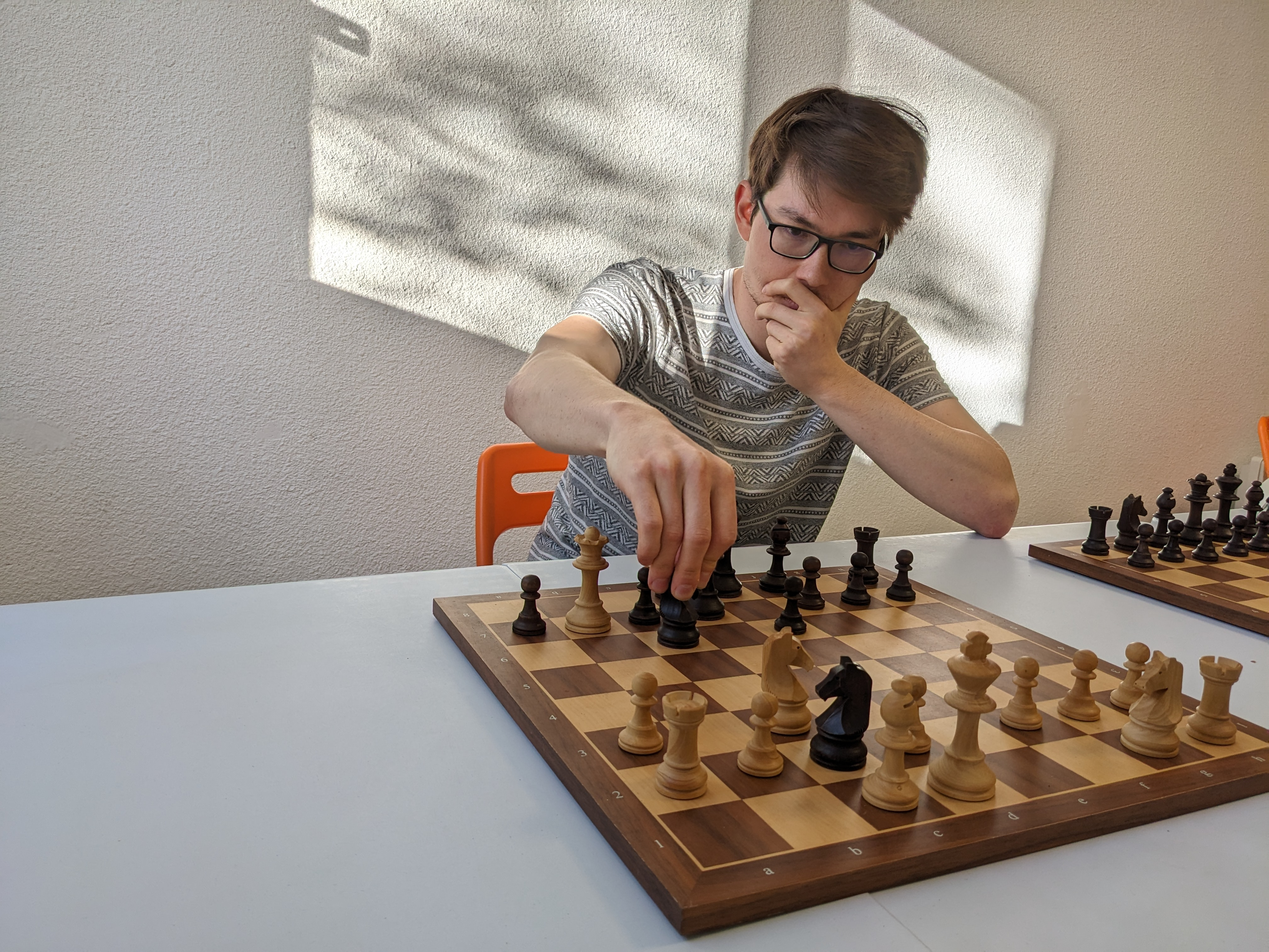
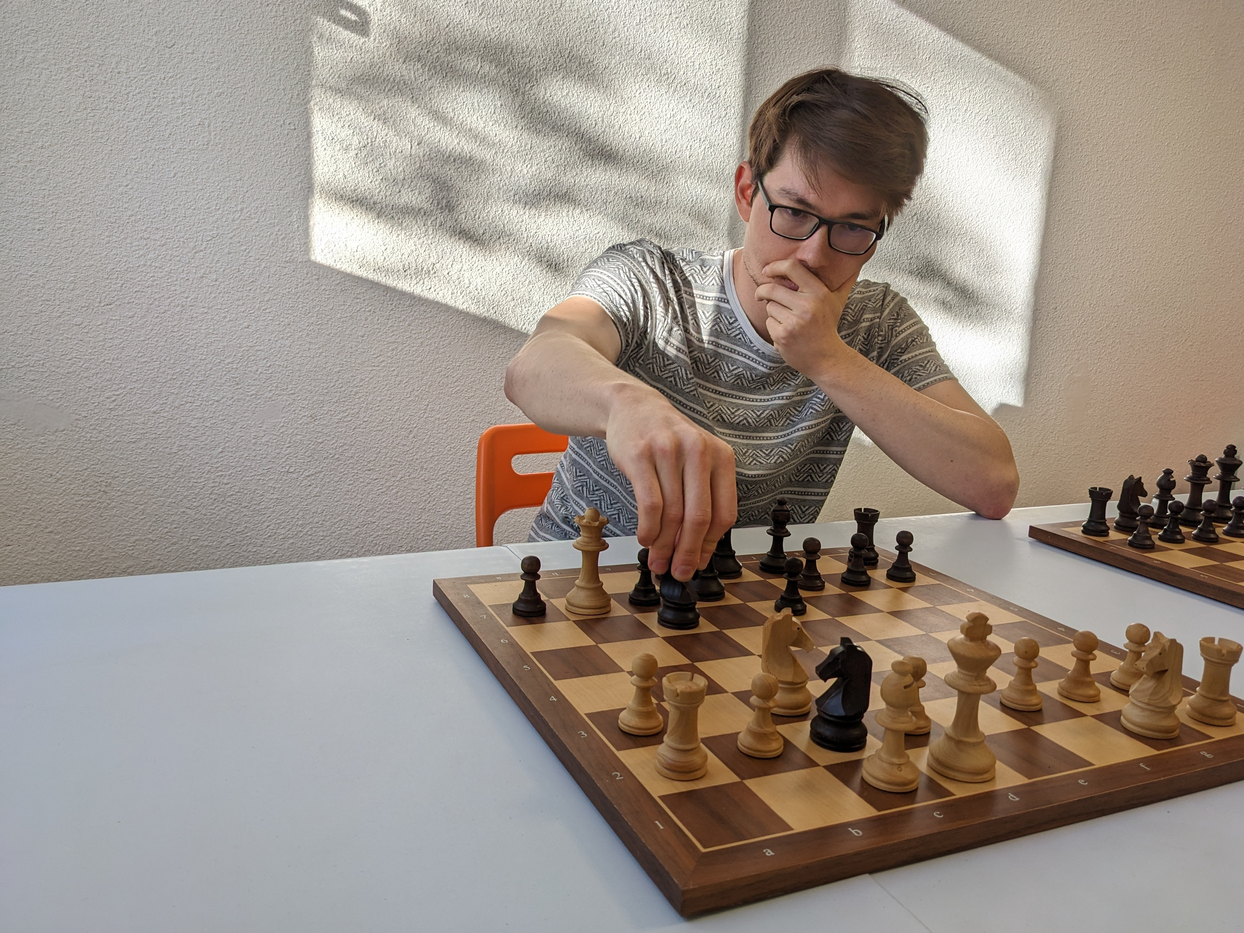
Responsive hero optimization

diff --git a/index.html b/index.html
@@ -133,14 +133,81 @@
     <div x-bind:class="showMobileNav ? 'opacity-50 pointer-events-none' : 'opacity-100 pointer-events-auto'" @resize.window="showMobileNav = window.innerWidth < 1024 ? showMobileNav : false;">
 
     <!-- Hero Banner (Divided into Three Parts) -->
-    <div class="relative flex flex-col h-screen bg-gradient-to-r from-[rgba(0,0,0,0.6)] to-[rgba(254,140,31,0.06)]">
-        <img
-            class="absolute object-cover w-full h-full mix-blend-darken"
-            srcset="images/herochess-3840.jpg 3840w, images/herochess-2860.jpg 2860w, images/herochess-1920.jpg 1920w, images/herochess-1280.jpg 1280w, images/herochess-1024.jpg 1024w, images/herochess-768.jpg 768w, images/herochess-600.jpg 6000w, images/herochess-428.jpg 428w, images/herochess-360.jpg 360w"
-            sizes="100vw"
-            src="images/herochess-1024.jpg"
-            alt="Sylvain Duhau-Marmon playing chess"
-            >
+    <div class="relative flex flex-col h-screen bg-gradient-to-r from-[rgba(0,0,0,0.8)] to-[rgba(254,140,31,0.08)]">
+        <!-- Responsive Background Image -->
+        <picture>
+            <source
+                class= "absolute object-cover w-full h-full mix-blend-darken"
+                media="(max-width: 767px)"
+                sizes="100vw"
+                srcset="
+                    images/herochess_agurta/herochess_agurta_ar_9_16,c_fill,g_auto__c_scale,w_480.jpg 480w,
+                    images/herochess_agurta/herochess_agurta_ar_9_16,c_fill,g_auto__c_scale,w_547.jpg 547w,
+                    images/herochess_agurta/herochess_agurta_ar_9_16,c_fill,g_auto__c_scale,w_610.jpg 610w,
+                    images/herochess_agurta/herochess_agurta_ar_9_16,c_fill,g_auto__c_scale,w_666.jpg 666w,
+                    images/herochess_agurta/herochess_agurta_ar_9_16,c_fill,g_auto__c_scale,w_724.jpg 724w,
+                    images/herochess_agurta/herochess_agurta_ar_9_16,c_fill,g_auto__c_scale,w_776.jpg 776w,
+                    images/herochess_agurta/herochess_agurta_ar_9_16,c_fill,g_auto__c_scale,w_796.jpg 796w,
+                    images/herochess_agurta/herochess_agurta_ar_9_16,c_fill,g_auto__c_scale,w_915.jpg 915w,
+                    images/herochess_agurta/herochess_agurta_ar_9_16,c_fill,g_auto__c_scale,w_925.jpg 925w,
+                    images/herochess_agurta/herochess_agurta_ar_9_16,c_fill,g_auto__c_scale,w_1000.jpg 1000w,
+                    images/herochess_agurta/herochess_agurta_ar_9_16,c_fill,g_auto__c_scale,w_1065.jpg 1065w,
+                    images/herochess_agurta/herochess_agurta_ar_9_16,c_fill,g_auto__c_scale,w_1095.jpg 1095w,
+                    images/herochess_agurta/herochess_agurta_ar_9_16,c_fill,g_auto__c_scale,w_1092.jpg 1092w,
+                    images/herochess_agurta/herochess_agurta_ar_9_16,c_fill,g_auto__c_scale,w_1332.jpg 1332w,
+                    images/herochess_agurta/herochess_agurta_ar_9_16,c_fill,g_auto__c_scale,w_1384.jpg 1384w,
+                    images/herochess_agurta/herochess_agurta_ar_9_16,c_fill,g_auto__c_scale,w_1431.jpg 1431w,
+                    images/herochess_agurta/herochess_agurta_ar_9_16,c_fill,g_auto__c_scale,w_1475.jpg 1475w,
+                    images/herochess_agurta/herochess_agurta_ar_9_16,c_fill,g_auto__c_scale,w_1516.jpg 1516w,
+                    images/herochess_agurta/herochess_agurta_ar_9_16,c_fill,g_auto__c_scale,w_1533.jpg 1533w,
+                    images/herochess_agurta/herochess_agurta_ar_9_16,c_fill,g_auto__c_scale,w_1534.jpg 1534w">
+            <source
+                class= "absolute object-cover w-full h-full mix-blend-darken"
+                media="(min-width: 768px) and (max-width: 991px)"
+                sizes="100vw"
+                srcset="
+                    images/herochess_agurta/herochess_agurta_c_scale,w_768.jpg 768w,
+                    images/herochess_agurta/herochess_agurta_c_scale,w_872.jpg 872w,
+                    images/herochess_agurta/herochess_agurta_c_scale,w_967.jpg 967w,
+                    images/herochess_agurta/herochess_agurta_c_scale,w_1101.jpg 1101w,
+                    images/herochess_agurta/herochess_agurta_c_scale,w_1187.jpg 1187w,
+                    images/herochess_agurta/herochess_agurta_c_scale,w_1268.jpg 1268w,
+                    images/herochess_agurta/herochess_agurta_c_scale,w_1348.jpg 1348w,
+                    images/herochess_agurta/herochess_agurta_c_scale,w_1426.jpg 1426w,
+                    images/herochess_agurta/herochess_agurta_c_scale,w_1500.jpg 1500w,
+                    images/herochess_agurta/herochess_agurta_c_scale,w_1573.jpg 1573w,
+                    images/herochess_agurta/herochess_agurta_c_scale,w_1642.jpg 1642w,
+                    images/herochess_agurta/herochess_agurta_c_scale,w_1708.jpg 1708w,
+                    images/herochess_agurta/herochess_agurta_c_scale,w_1777.jpg 1777w,
+                    images/herochess_agurta/herochess_agurta_c_scale,w_1842.jpg 1842w,
+                    images/herochess_agurta/herochess_agurta_c_scale,w_1908.jpg 1908w,
+                    images/herochess_agurta/herochess_agurta_c_scale,w_1979.jpg 1979w,
+                    images/herochess_agurta/herochess_agurta_c_scale,w_1982.jpg 1982w">
+            <img
+                class= "absolute object-cover w-full h-full mix-blend-darken"
+                sizes="100vw"
+                srcset="
+                    images/herochess_agurta/herochess_agurta_ar_16_9,c_fill,g_auto__c_scale,w_992.jpg 992w,
+                    images/herochess_agurta/herochess_agurta_ar_16_9,c_fill,g_auto__c_scale,w_1130.jpg 1130w,
+                    images/herochess_agurta/herochess_agurta_ar_16_9,c_fill,g_auto__c_scale,w_1214.jpg 1214w,
+                    images/herochess_agurta/herochess_agurta_ar_16_9,c_fill,g_auto__c_scale,w_1348.jpg 1348w,
+                    images/herochess_agurta/herochess_agurta_ar_16_9,c_fill,g_auto__c_scale,w_1433.jpg 1433w,
+                    images/herochess_agurta/herochess_agurta_ar_16_9,c_fill,g_auto__c_scale,w_1518.jpg 1518w,
+                    images/herochess_agurta/herochess_agurta_ar_16_9,c_fill,g_auto__c_scale,w_1591.jpg 1591w,
+                    images/herochess_agurta/herochess_agurta_ar_16_9,c_fill,g_auto__c_scale,w_1665.jpg 1665w,
+                    images/herochess_agurta/herochess_agurta_ar_16_9,c_fill,g_auto__c_scale,w_1738.jpg 1738w,
+                    images/herochess_agurta/herochess_agurta_ar_16_9,c_fill,g_auto__c_scale,w_1811.jpg 1811w,
+                    images/herochess_agurta/herochess_agurta_ar_16_9,c_fill,g_auto__c_scale,w_1880.jpg 1880w,
+                    images/herochess_agurta/herochess_agurta_ar_16_9,c_fill,g_auto__c_scale,w_1947.jpg 1947w,
+                    images/herochess_agurta/herochess_agurta_ar_16_9,c_fill,g_auto__c_scale,w_2018.jpg 2018w,
+                    images/herochess_agurta/herochess_agurta_ar_16_9,c_fill,g_auto__c_scale,w_2085.jpg 2085w,
+                    images/herochess_agurta/herochess_agurta_ar_16_9,c_fill,g_auto__c_scale,w_2153.jpg 2153w,
+                    images/herochess_agurta/herochess_agurta_ar_16_9,c_fill,g_auto__c_scale,w_2160.jpg 2160w
+                    "
+                src="images/herochess_agurta/herochess_agurta_ar_16_9,c_fill,g_auto__c_scale,w_2160.jpg"
+                alt="Sylvain Duhau-Marmon playing chess">
+        </picture>
+
         <!-- Top Part (1/5) -->
         <div class="relative flex h-1/5"></div>
 

diff --git a/style.css b/style.css
@@ -2069,26 +2069,8 @@ video {
   background-image: linear-gradient(to right, var(--tw-gradient-stops));
 }
 
-.from-\[\#00000080\] {
-  --tw-gradient-from: #00000080 var(--tw-gradient-from-position);
-  --tw-gradient-to: rgb(0 0 0 / 0) var(--tw-gradient-to-position);
-  --tw-gradient-stops: var(--tw-gradient-from), var(--tw-gradient-to);
-}
-
-.from-\[\#\#ffffff80\] {
-  --tw-gradient-from: ##ffffff80 var(--tw-gradient-from-position);
-  --tw-gradient-to: rgb(255 255 255 / 0) var(--tw-gradient-to-position);
-  --tw-gradient-stops: var(--tw-gradient-from), var(--tw-gradient-to);
-}
-
-.from-\[\#\#\#ffffffe6\] {
-  --tw-gradient-from: ###ffffffe6 var(--tw-gradient-from-position);
-  --tw-gradient-to: rgb(255 255 255 / 0) var(--tw-gradient-to-position);
-  --tw-gradient-stops: var(--tw-gradient-from), var(--tw-gradient-to);
-}
-
-.from-\[rgba\(0\2c 0\2c 0\2c 0\.5\)\] {
-  --tw-gradient-from: rgba(0,0,0,0.5) var(--tw-gradient-from-position);
+.from-\[rgba\(0\2c 0\2c 0\2c 0\.6\)\] {
+  --tw-gradient-from: rgba(0,0,0,0.6) var(--tw-gradient-from-position);
   --tw-gradient-to: rgba(0, 0, 0, 0) var(--tw-gradient-to-position);
   --tw-gradient-stops: var(--tw-gradient-from), var(--tw-gradient-to);
 }
@@ -2099,112 +2081,12 @@ video {
   --tw-gradient-stops: var(--tw-gradient-from), var(--tw-gradient-to);
 }
 
-.from-\[rgba\(0\2c 0\2c 0\2c 0\.7\)\] {
-  --tw-gradient-from: rgba(0,0,0,0.7) var(--tw-gradient-from-position);
-  --tw-gradient-to: rgba(0, 0, 0, 0) var(--tw-gradient-to-position);
-  --tw-gradient-stops: var(--tw-gradient-from), var(--tw-gradient-to);
-}
-
-.from-\[rgba\(0\2c 0\2c 0\2c 0\.75\)\] {
-  --tw-gradient-from: rgba(0,0,0,0.75) var(--tw-gradient-from-position);
-  --tw-gradient-to: rgba(0, 0, 0, 0) var(--tw-gradient-to-position);
-  --tw-gradient-stops: var(--tw-gradient-from), var(--tw-gradient-to);
-}
-
-.from-\[rgba\(0\2c 0\2c 0\2c 0\.6\)\] {
-  --tw-gradient-from: rgba(0,0,0,0.6) var(--tw-gradient-from-position);
-  --tw-gradient-to: rgba(0, 0, 0, 0) var(--tw-gradient-to-position);
-  --tw-gradient-stops: var(--tw-gradient-from), var(--tw-gradient-to);
-}
-
-.from-\[rgba\(0\2c 0\2c 0\2c 0\.65\)\] {
-  --tw-gradient-from: rgba(0,0,0,0.65) var(--tw-gradient-from-position);
-  --tw-gradient-to: rgba(0, 0, 0, 0) var(--tw-gradient-to-position);
-  --tw-gradient-stops: var(--tw-gradient-from), var(--tw-gradient-to);
-}
-
-.to-\[\#f1ee631a\] {
-  --tw-gradient-to: #f1ee631a var(--tw-gradient-to-position);
-}
-
-.to-\[\#\#ffffff1a\] {
-  --tw-gradient-to: ##ffffff1a var(--tw-gradient-to-position);
-}
-
-.to-\[\#0000001a\] {
-  --tw-gradient-to: #0000001a var(--tw-gradient-to-position);
-}
-
-.to-\[\#ffffff1a\] {
-  --tw-gradient-to: #ffffff1a var(--tw-gradient-to-position);
-}
-
-.to-\[\#f18f631a\] {
-  --tw-gradient-to: #f18f631a var(--tw-gradient-to-position);
-}
-
-.to-\[\#fecdd31a\] {
-  --tw-gradient-to: #fecdd31a var(--tw-gradient-to-position);
-}
-
-.to-\[\#fe8c1f1a\] {
-  --tw-gradient-to: #fe8c1f1a var(--tw-gradient-to-position);
-}
-
-.to-\[\#ffff1a\] {
-  --tw-gradient-to: #ffff1a var(--tw-gradient-to-position);
-}
-
-.to-\[rgba\(254\2c 140\2c 31\2c 0\.5\)\] {
-  --tw-gradient-to: rgba(254,140,31,0.5) var(--tw-gradient-to-position);
-}
-
-.to-\[rgba\(254\2c 140\2c 31\2c 0\.3\)\] {
-  --tw-gradient-to: rgba(254,140,31,0.3) var(--tw-gradient-to-position);
-}
-
-.to-\[rgba\(254\2c 140\2c 31\2c 0\.25\)\] {
-  --tw-gradient-to: rgba(254,140,31,0.25) var(--tw-gradient-to-position);
-}
-
-.to-\[rgba\(254\2c 140\2c 31\2c 0\.2\)\] {
-  --tw-gradient-to: rgba(254,140,31,0.2) var(--tw-gradient-to-position);
-}
-
-.to-\[rgba\(254\2c 140\2c 31\2c 0\.1\)\] {
-  --tw-gradient-to: rgba(254,140,31,0.1) var(--tw-gradient-to-position);
-}
-
-.to-\[rgba\(0\2c 0\2c 0\2c 0\.2\)\] {
-  --tw-gradient-to: rgba(0,0,0,0.2) var(--tw-gradient-to-position);
-}
-
-.to-\[rgba\(254\2c 140\2c 31\2c 0\)\] {
-  --tw-gradient-to: rgba(254,140,31,0) var(--tw-gradient-to-position);
-}
-
-.to-\[rgba\(254\2c 140\2c 31\2c 0\.34\)\] {
-  --tw-gradient-to: rgba(254,140,31,0.34) var(--tw-gradient-to-position);
-}
-
-.to-\[rgba\(0\2c 0\2c 0\2c 0\.1\)\] {
-  --tw-gradient-to: rgba(0,0,0,0.1) var(--tw-gradient-to-position);
-}
-
-.to-\[rgba\(254\2c 140\2c 31\2c 0\.05\)\] {
-  --tw-gradient-to: rgba(254,140,31,0.05) var(--tw-gradient-to-position);
-}
-
-.to-\[rgba\(254\2c 140\2c 31\2c 0\.07\)\] {
-  --tw-gradient-to: rgba(254,140,31,0.07) var(--tw-gradient-to-position);
+.to-\[rgba\(254\2c 140\2c 31\2c 0\.06\)\] {
+  --tw-gradient-to: rgba(254,140,31,0.06) var(--tw-gradient-to-position);
 }
 
 .to-\[rgba\(254\2c 140\2c 31\2c 0\.08\)\] {
   --tw-gradient-to: rgba(254,140,31,0.08) var(--tw-gradient-to-position);
-}
-
-.to-\[rgba\(254\2c 140\2c 31\2c 0\.06\)\] {
-  --tw-gradient-to: rgba(254,140,31,0.06) var(--tw-gradient-to-position);
 }
 
 .decoration-slice {
